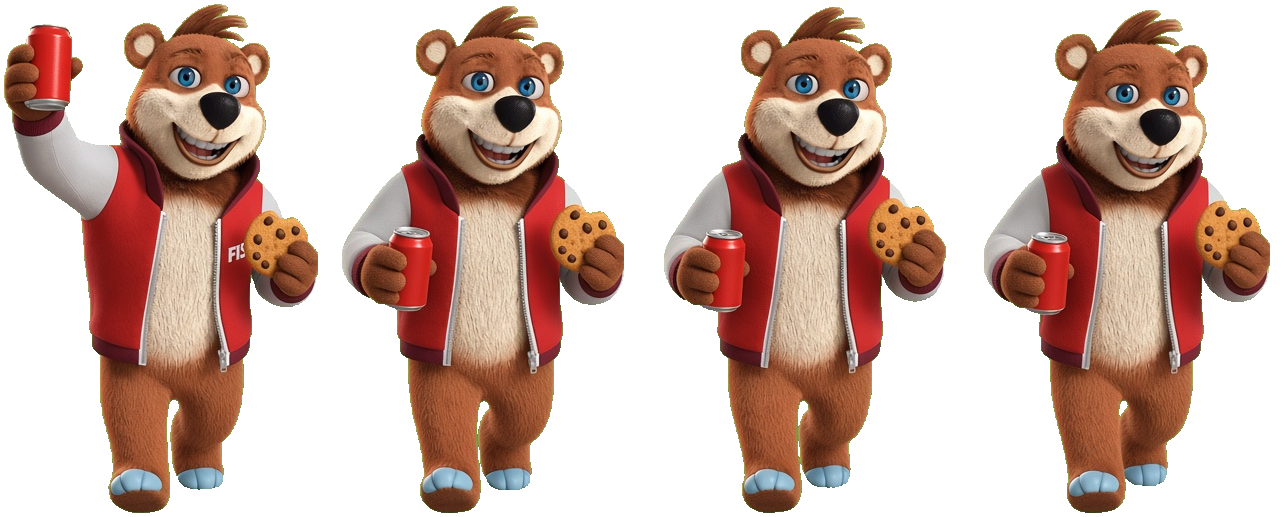
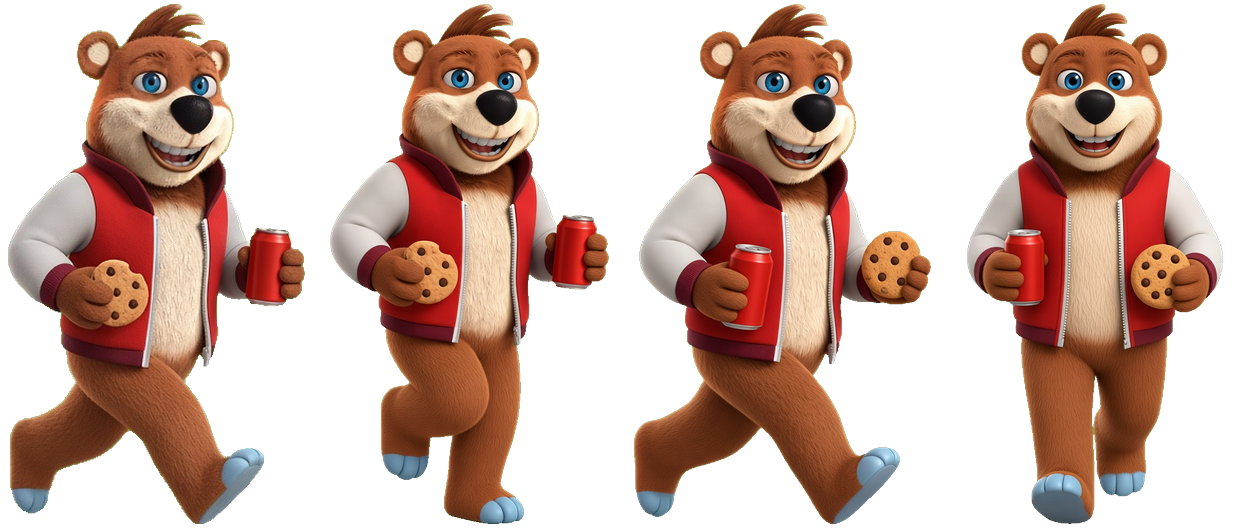
Abre o passo do Buddy para as pernas trocarem em vez de ficarem travadas.

diff --git a/src/components/fisk-buddy.tsx b/src/components/fisk-buddy.tsx
@@ -2,11 +2,11 @@
 
 import { useEffect, useRef, useState } from "react";
 
-const HEIGHT = 315;
+const HEIGHT = 331;
 const WIDTH = 196;
 const CHEER_MS = 2400;
 const FRAMES = 4;
-const ORDER = [0, 1, 2, 3, 2, 1];
+const ORDER = [0, 1, 2, 3];
 
 export function celebrateSale() {
   if (typeof window === "undefined") return;
@@ -84,15 +84,15 @@ export function FiskBuddy() {
       const moving = over && !cheeringNow && dist > 16;
 
       if (cheeringNow) {
-        state.phase += 0.28;
+        state.phase += 0.22;
       } else if (moving) {
         const speed = 3.2;
         state.x += (dx / dist) * speed;
         state.y += (dy / dist) * speed;
         if (Math.abs(dx) > 8) state.dir = dx > 0 ? 1 : -1;
-        state.phase += 0.16;
+        state.phase += 0.11;
       } else {
-        state.phase += 0.045;
+        state.phase += 0.04;
       }
       state.x = Math.min(maxX, Math.max(8, state.x));
       state.y = Math.min(maxY, Math.max(8, state.y));
@@ -105,8 +105,9 @@ export function FiskBuddy() {
         lift = 8 + hop * 48;
         tilt = Math.sin(elapsed / 120) * 10;
       } else if (moving) {
-        lift = 6 + Math.abs(Math.sin(state.phase)) * 10;
-        tilt = state.dir * 3;
+        const step = state.phase % FRAMES;
+        lift = Math.abs(Math.sin(step * Math.PI)) * 8;
+        tilt = state.dir * 2;
       } else {
         lift = Math.sin(frame / 24) * 3;
         tilt = Math.sin(frame / 30) * 2;
